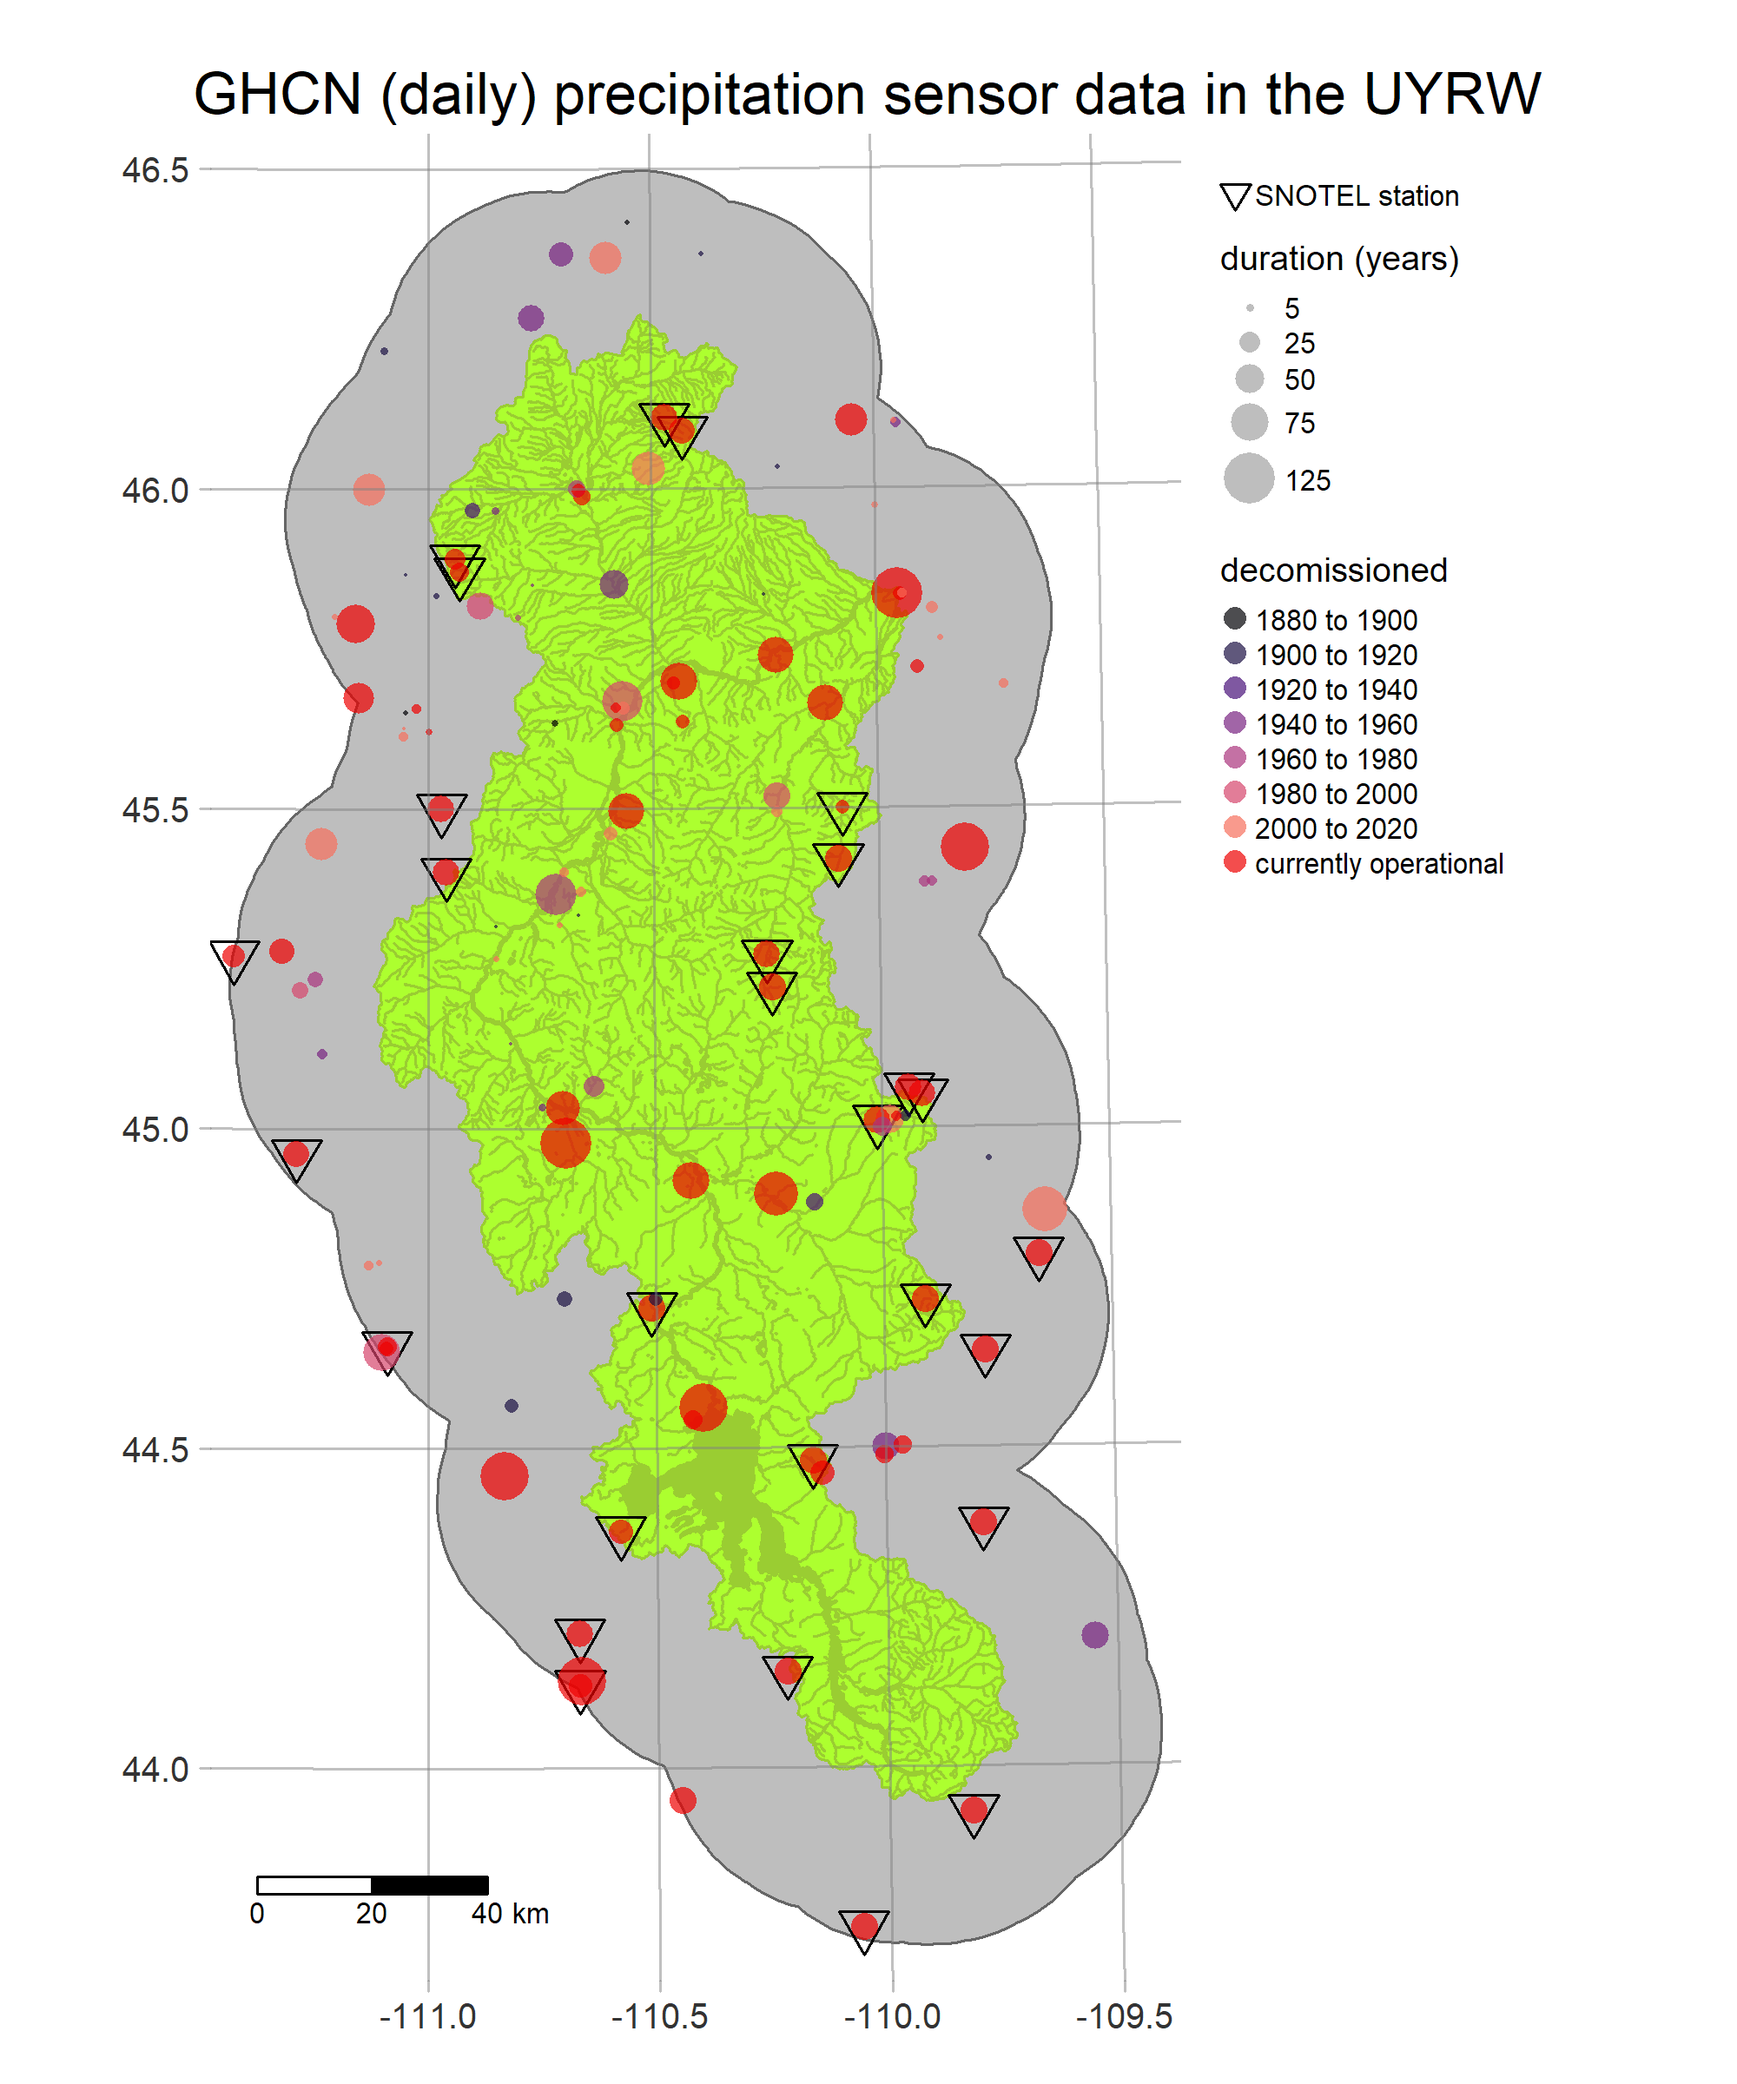
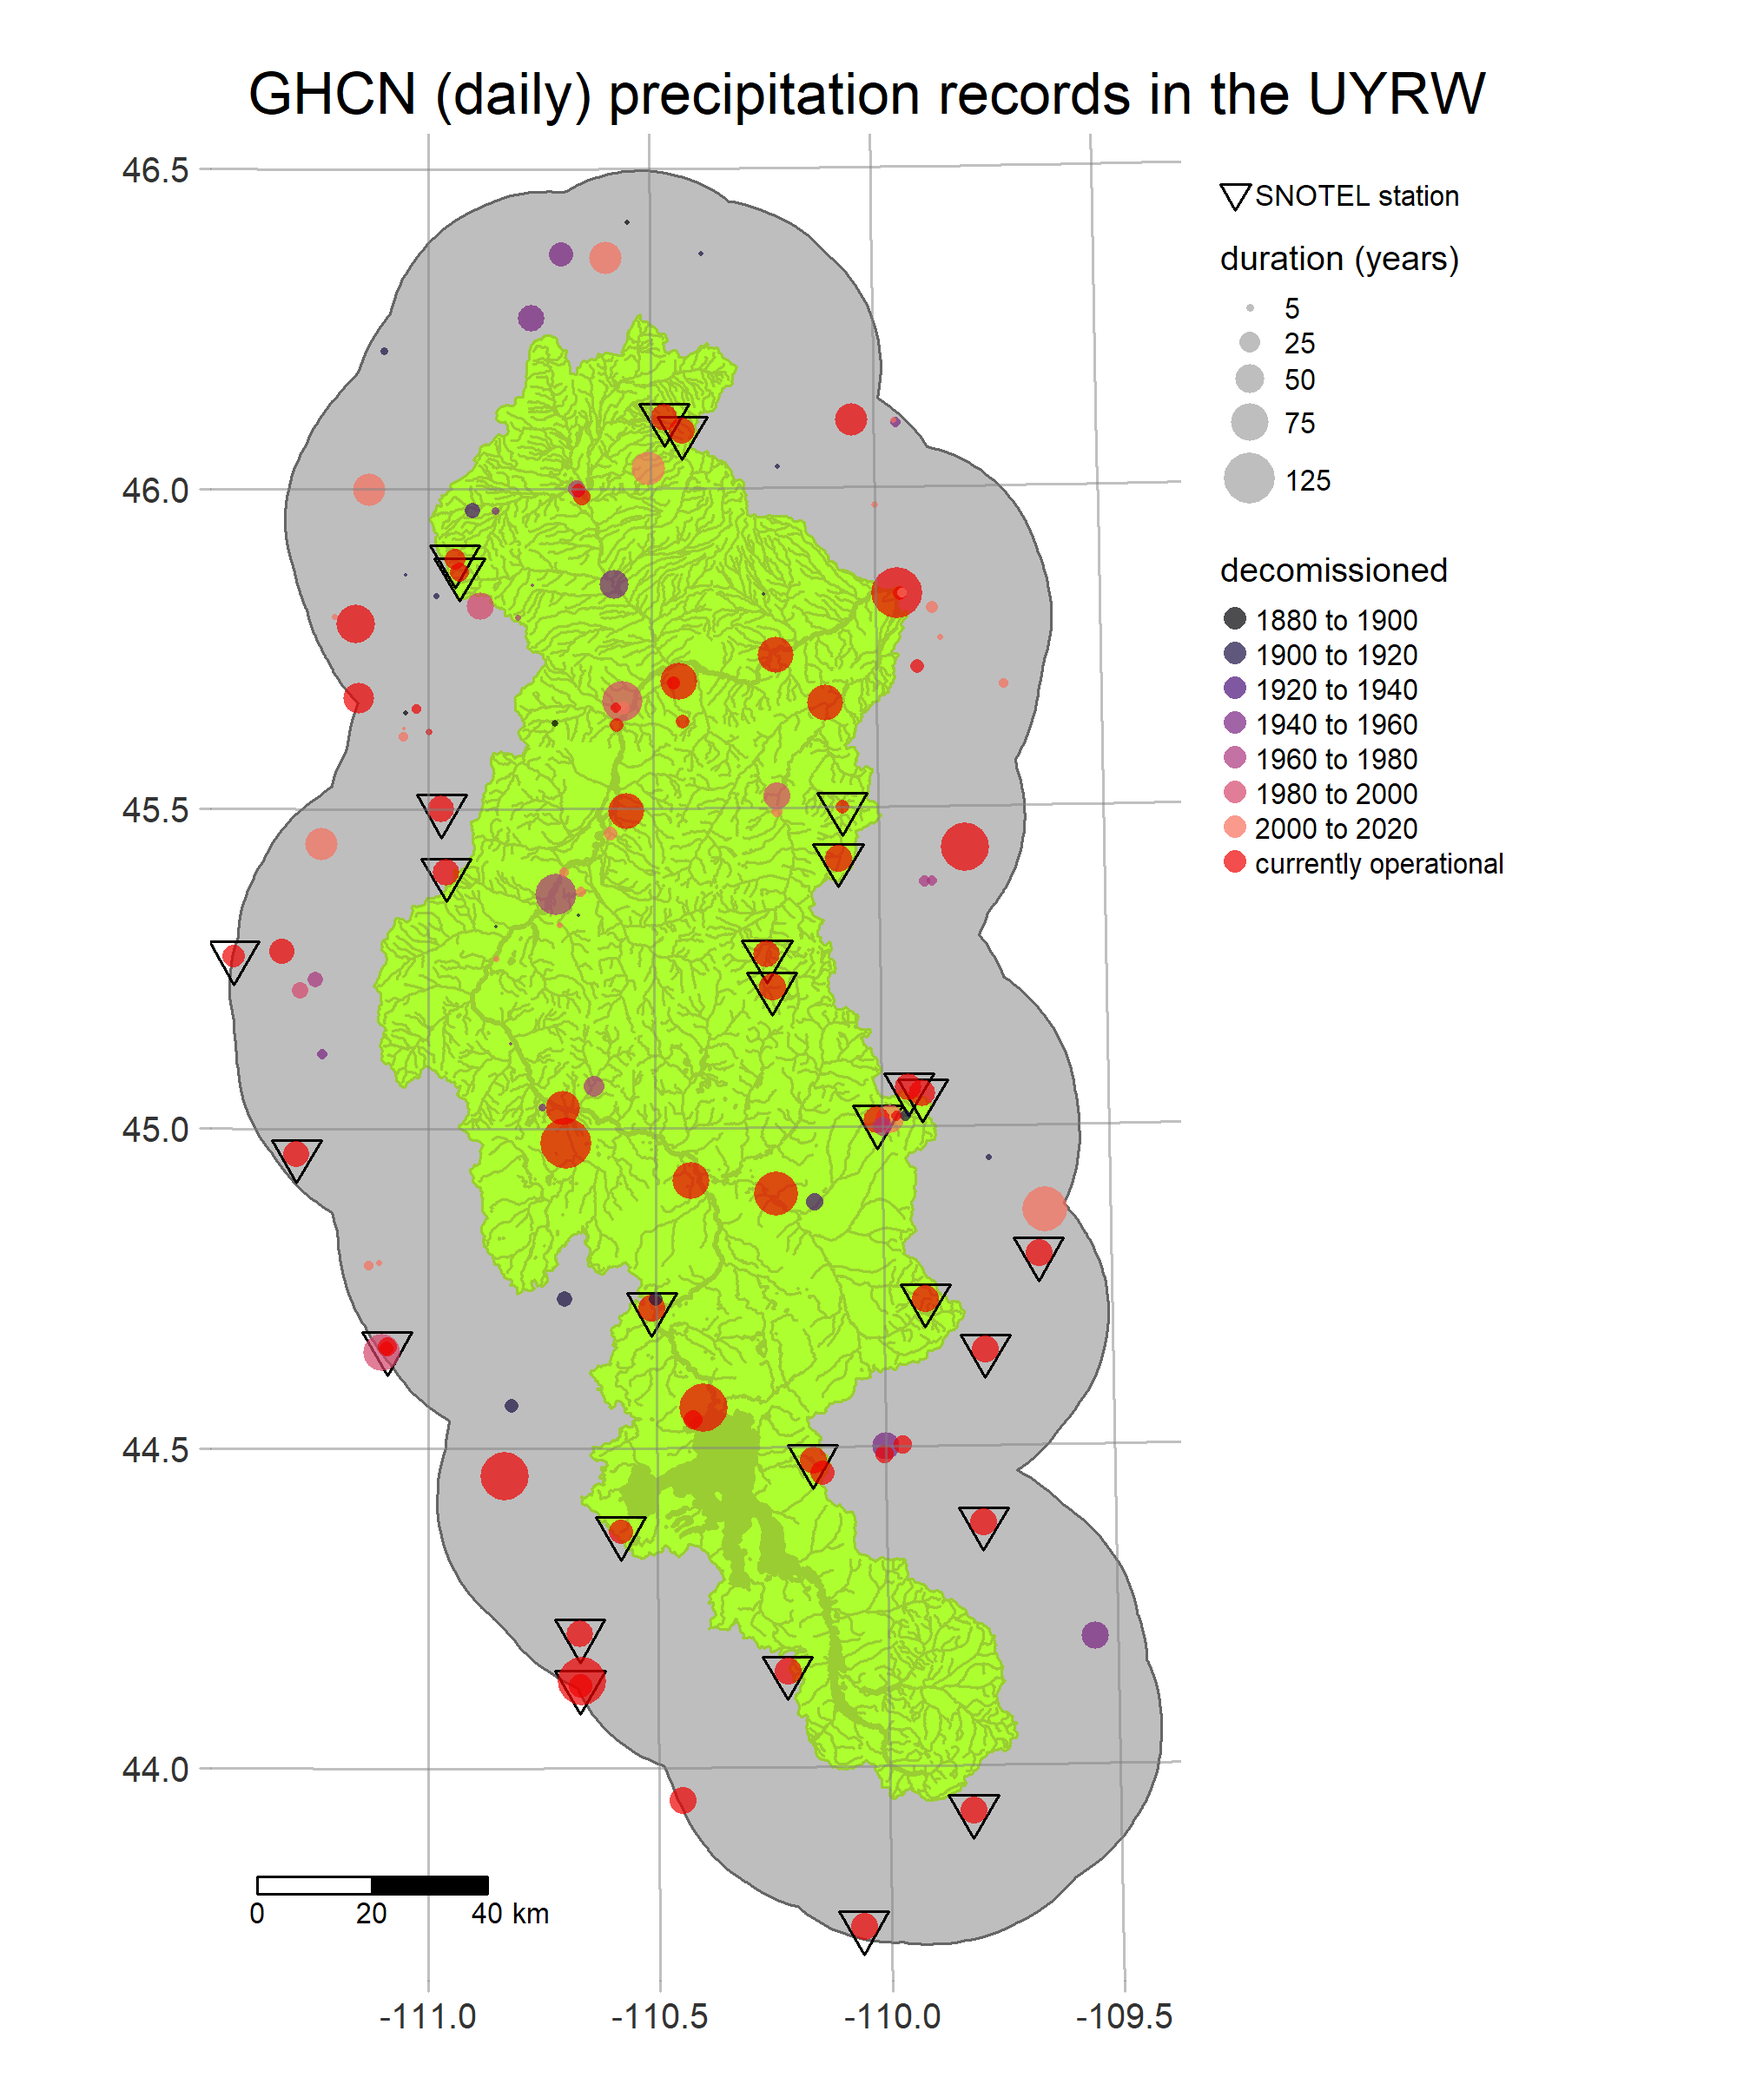
changed figure title

Changed region(s): [[0.093, 0.0312, 0.899, 0.0625]]

diff --git a/get_weatherstations.knit.md b/get_weatherstations.knit.md
@@ -31,13 +31,6 @@ library(tmap)
 library(here)
 ```
 
-Data on geographical landmarks and highways are available from OSM using the overpass API via `osmdata`
-
-
-```r
-library(osmdata)
-```
-
 
 ## project data
 
@@ -49,12 +42,12 @@ src.subdir = 'data/source'
 out.subdir = 'data/prepared'
 
 # load metadata csv, CRS info list and watershed geometries from disk
-uyrw.metadata.df = read.csv(here('data/basins_metadata.csv'), header=TRUE, row.names=1)
-crs.list = readRDS(here(uyrw.metadata.df['crs', 'file']))
-uyrw.poly = readRDS(here(uyrw.metadata.df['boundary', 'file']))
-uyrw.waterbody = readRDS(here(uyrw.metadata.df['waterbody', 'file']))
-uyrw.mainstem = readRDS(here(uyrw.metadata.df['mainstem', 'file']))
-uyrw.flowline = readRDS(here(uyrw.metadata.df['flowline', 'file']))
+basins.metadata.df = read.csv(here('data/basins_metadata.csv'), header=TRUE, row.names=1)
+crs.list = readRDS(here(basins.metadata.df['crs', 'file']))
+uyrw.poly = readRDS(here(basins.metadata.df['boundary', 'file']))
+uyrw.waterbody = readRDS(here(basins.metadata.df['waterbody', 'file']))
+uyrw.mainstem = readRDS(here(basins.metadata.df['mainstem', 'file']))
+uyrw.flowline = readRDS(here(basins.metadata.df['flowline', 'file']))
 
 # this CSV file will serve as a guide for all files written to the project folder
 weatherstation.metadata.file = 'data/weatherstation_metadata.csv'
@@ -326,7 +319,7 @@ if(!file.exists(here(weatherstation.metadata.df['img_weatherstation', 'file'])))
                           colorNA='red2') +
                 tm_grid(n.x=4, n.y=5, projection=crs.list$epsg.geo, alpha=0.5) +
                 tm_scale_bar(breaks=c(0, 20, 40), position=c('left', 'bottom'), text.size=0.5) +
-                tm_layout(main.title='GHCN (daily) precipitation sensor data in the UYRW',
+                tm_layout(main.title='GHCN (daily) precipitation records in the UYRW',
                           main.title.size=1,
                           main.title.position='center',
                           legend.title.size=0.7,
@@ -343,7 +336,7 @@ if(!file.exists(here(weatherstation.metadata.df['img_weatherstation', 'file'])))
 }
 ```
 
-![SNOTEL stations in the UYRW](https://raw.githubusercontent.com/deankoch/URYW_data/master/graphics/weatherstation_sites.png)
+![weather stations in the UYRW](https://raw.githubusercontent.com/deankoch/URYW_data/master/graphics/weatherstation_sites.png)
 
 
 
